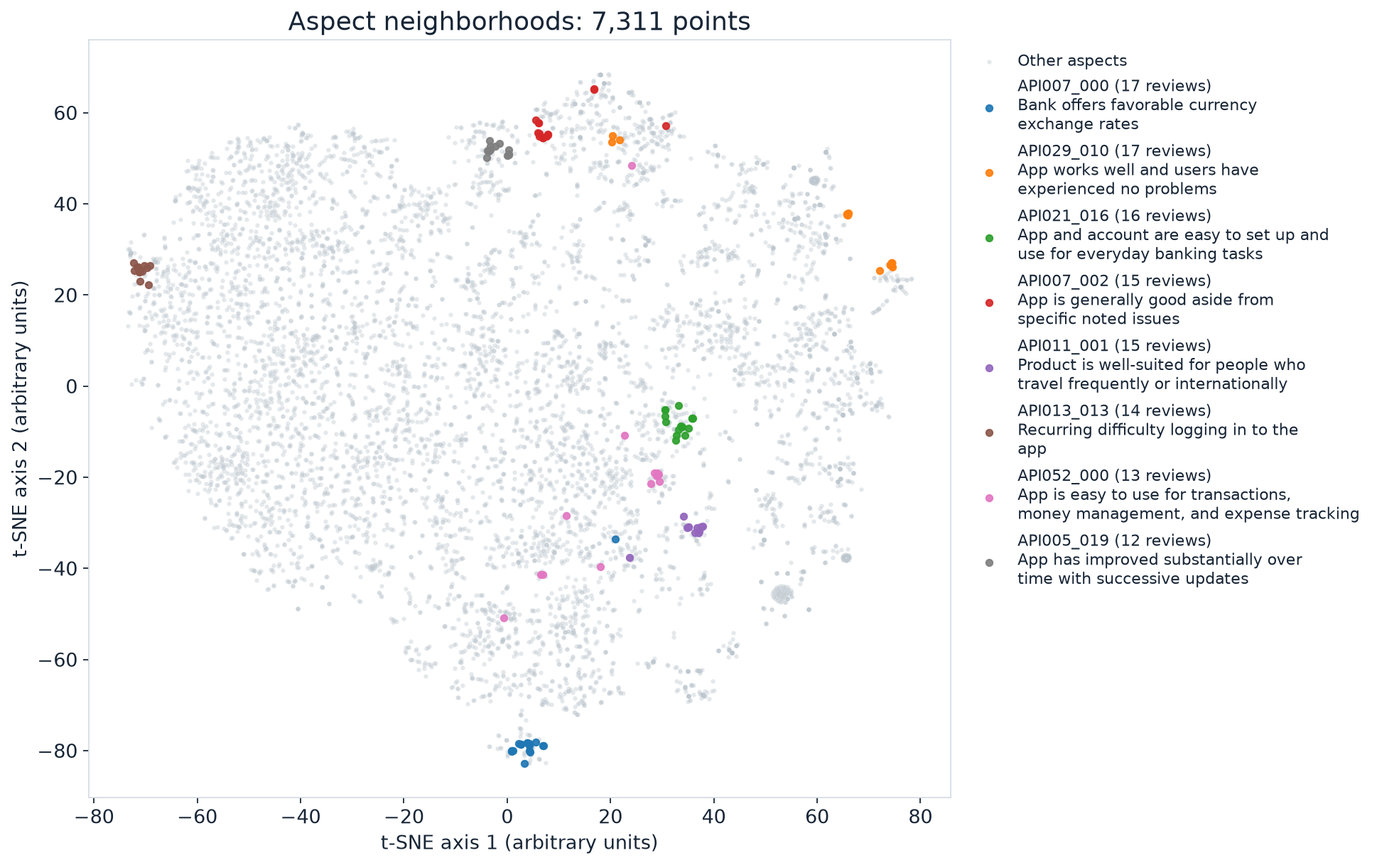
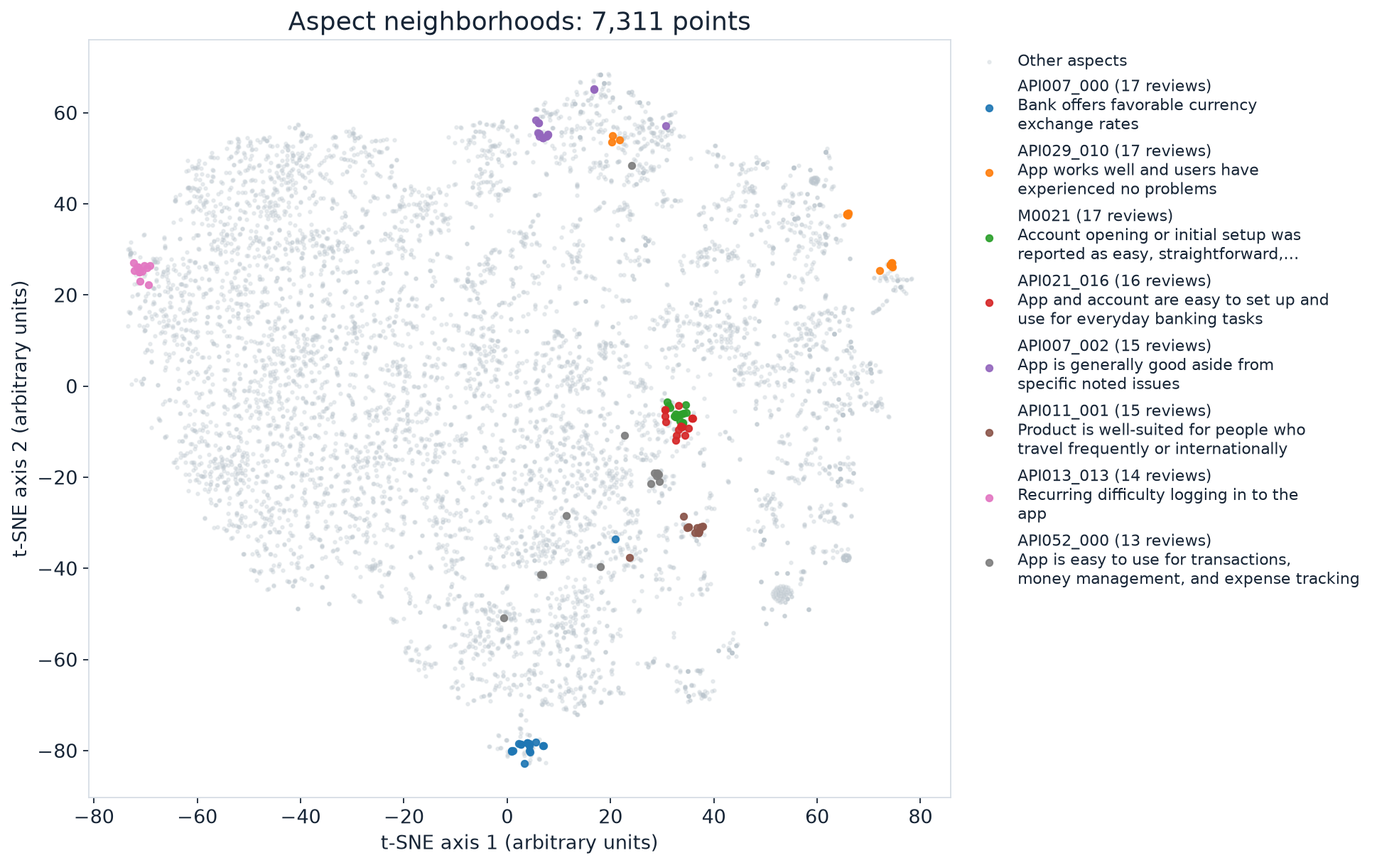
Publish current v2 Russian walkthrough and verified diagnostic figures

diff --git a/REVIEW_V2_RU.md b/REVIEW_V2_RU.md
@@ -1,0 +1,171 @@
+# Chattermill: что мы сделали и что защищаем
+
+Актуальный разбор на **4 октября 2026**. Это материал для твоего финального чтения, а не сообщение о сдаче работодателю. Модельные этапы v2 завершены. Новый ZIP и окончательный английский README ещё нужно собрать и проверить; прежний ZIP содержит v1.
+
+## 1. Задача — не просто распределить отзывы по 15 классам
+
+Даны 5 000 банковских отзывов и справочник из 15 тем, объединённых в 5 категорий. Правильной разметки отзывов нет.
+
+Нужно получить полезную картину обратной связи: выделить конкретные мысли пользователей и их отношение, собрать связанные мысли в понятные инсайты, затем связать их с широкими темами. Например, «приложение плохое» мало помогает продуктовой команде. «После перехода на новую версию сразу заканчивается сессия» уже описывает конкретный сценарий, для которого можно открыть подтверждающие отзывы.
+
+Один отзыв может содержать несколько мыслей, с разным отношением и про разные версии продукта. Поэтому ни один общий sentiment, ни один класс на весь текст не решают задачу целиком.
+
+## 2. Главная идея решения
+
+**Отзыв → отдельные мысли с цитатами → кандидаты групп → смысловая проверка групп → широкие темы → подсчёты и примеры.**
+
+Это последовательность этапов, не обучение новой нейросети.
+
+| Термин | Что он означает |
+|---|---|
+| Review | Исходный отзыв целиком |
+| Aspect | Конкретная мысль внутри отзыва, например жалоба на немедленный выход из аккаунта |
+| Sentiment | Отношение к этой мысли: positive, negative или neutral |
+| Insight | Понятное утверждение, поддержанное участниками группы; это не обязательно массовая проблема |
+| Theme | Широкая рубрика из задания, например Account Access |
+
+### Пример: нельзя смешать старое и новое
+
+В отзыве 2617 пользователь пишет: старое приложение работало без проблем, но новая версия сразу выводит из аккаунта, прежде чем он успевает что-либо сделать.
+
+![Разные мысли в одном отзыве](assets/mixed-review.png)
+
+Получаются две отдельные мысли: похвала прошлой версии и жалоба на текущую. В группу жалоб на немедленный logout идёт только вторая. Похожий сценарий есть в отзыве 1013.
+
+Мы не утверждаем, что установили техническую причину одного и того же бага. Для этого нужны логи и код приложения, которых у нас нет.
+
+**Фраза для защиты:** “I separate observations inside a review. Praise for an old version should not cancel a complaint about the current one.”
+
+## 3. Почему у аспекта есть дополнительные поля
+
+Модель записывает не только краткую мысль и sentiment, но и дословную цитату, объект обсуждения, время и источник опыта. Это наш инженерный формат, а не отдельное требование иметь именно шесть полей.
+
+| Поле | Какую ошибку хотим предотвратить |
+|---|---|
+| aspect | Не потерять конкретную мысль за общей оценкой |
+| sentiment | Не присвоить всем мыслям отношение ко всему отзыву |
+| evidence | Не принять утверждение, для которого нет цитаты в оригинале |
+| referent | Не перепутать целевой банк с конкурентом |
+| time | Не выдать прошлую или уже исправленную проблему за текущую |
+| attribution | Не спутать личный опыт с пересказом или предположением |
+
+Поля сами по себе не гарантируют правильность. Цитата может быть дословной, но модель всё равно способна неверно её понять. Поэтому проверка формата и проверка смысла — разные задачи.
+
+## 4. Как получаем группы
+
+Сначала E5-small-v2 превращает формулировку каждой мысли в вектор — набор чисел, описывающий её смысл. Похожие формулировки становятся кандидатами на объединение.
+
+Используем complete-linkage clustering: для объединения недостаточно цепочки похожих соседей, элементы должны быть близки друг к другу по выбранному критерию. Затем учитываем контекст и даём кандидатам смысловую проверку моделью. Она может разделить широкую группу или отвергнуть неподтверждённую мысль.
+
+### Зачем осторожный порог
+
+![Порог кластеризации](assets/v2/threshold_sweep.png)
+
+На пилоте из 146 аспектов пороги cosine distance 0.15, 0.20 и 0.25 дали соответственно 84, 42 и 12 групп. Больший порог объединяет больше, но это не доказательство лучшего результата. Выбрали осторожный 0.15, а не самое красивое число групп. Оптимальность порога не установлена.
+
+### Почему потом понадобилось объединение
+
+![Размеры групп по этапам](assets/v2/group_sizes.png)
+
+После проверки модель часто разделяла кандидатов. Это уменьшало широкие объединения, но оставляло много похожих маленьких групп. В v2 проверили **50 непересекающихся пар** близких групп: модель разрешила 19 объединений и отклонила 31. Получилось 3 816 групп вместо 3 835 в исправленной рабочей копии.
+
+Это ограниченная попытка уменьшить дробление, не глобальное исправление всех групп. Даже принятое объединение может описывать общий пользовательский сценарий, а не одну доказанную техническую причину.
+
+### Что показывает облако точек
+
+![Облако аспектов](assets/v2/aspect_cloud.png)
+
+Каждая точка — один аспект. Для картинки 384-мерные векторы сжаты с помощью PCA и t-SNE. Цветом выделены восемь крупных групп, ранее помеченных моделью как конкретные повторяющиеся наблюдения.
+
+Картинка помогает выбрать места для проверки. Она не доказывает правильность кластеров: двумерные расстояния искажены проекцией. По красивому облаку нельзя заявить хорошую accuracy.
+
+## 5. Как связываем группы с 15 темами
+
+В v1 работал словарный baseline: ищем характерные слова и выражения. Он дешёвый и понятный, но пропускает перефразировки и может реагировать на слово вне нужного смысла.
+
+В v2 добавили смысловой mapper: модель читает группу и её наблюдения, затем выбирает подходящие темы либо явно отказывается от назначения. У каждой тематической связи сохраняются именно поддерживающие её аспекты и отзывы. Несколько тем допустимы; весь состав группы не приписываем каждой теме автоматически.
+
+![Словарь и смысловой mapping](assets/v2/mapping_coverage.png)
+
+Сравнение выполнено **на одних и тех же 3 656 допустимых группах целевого продукта**. Ещё 160 групп исключены из этого сравнения: они отвергнуты или не содержат целевых наблюдений.
+
+| Метод | Получили хотя бы одну тему | Остались без темы | Что измерили |
+|---|---:|---:|---|
+| Словарный baseline | 2 406 | 1 250 | Покрытие 65.8% |
+| Смысловой mapper | 3 376 | 280 | Покрытие 92.3% |
+
+**Мы увеличили покрытие, но не доказали рост точности.** Назначенная тема может быть ошибочной. Отсутствие темы может означать корректный отказ, узкое наблюдение или пропуск mapper. Без независимой разметки нельзя отличить все эти случаи численно.
+
+**Фраза для защиты:** “Semantic mapping covers more groups than the lexical baseline. I do not treat coverage as accuracy.”
+
+## 6. Какие идеи проверили и что из них взяли
+
+| Гипотеза простыми словами | Как проверили | Что наблюдали | Решение |
+|---|---|---|---|
+| Готовые темы могут скрыть детали отзывов | Диагностические извлечения с таксономией и без неё | Сохранили примеры для сравнения; надёжного численного доказательства преимущества нет | В основном проходе сначала извлекаем конкретные мысли, затем назначаем темы |
+| Один отзыв может смешивать прошлое, текущее и разные продукты | Разобрали примеры по цитатам и контексту | Есть случаи, где общий sentiment теряет важное различие | Сохраняем контекст у каждой мысли |
+| Широкий порог даст чрезмерные объединения | Пилот с тремя порогами | Число групп сильно меняется; правильность сама по себе не измерена | Осторожные кандидаты и последующая проверка |
+| После разделения остаётся избыточное дробление | Ревью 50 близких пар | Модель приняла 19 объединений | Сохраняем ограниченный проход, не называем проблему решённой |
+| Словарь недостаточно хорошо понимает перефразировки | Полный смысловой mapping и пересчёт словаря на тех же группах | Больше групп получают тему | Берём смысловой mapping, честно показываем отсутствие оценки accuracy |
+| Поиск от тем поможет найти дополнительные примеры | Сравнили BM25, E5 и гибрид RRF | Их top-20 списки различаются | Оставляем как исследовательский инструмент, не как основной способ открытия инсайтов |
+
+Предварительные обсуждения с Pro помогали формировать гипотезы. Ни мнение Pro, ни согласие нескольких моделей не считаем эталоном.
+
+### Идея поиска «от обратного»
+
+BM25 ищет совпадения слов с формулировкой темы. E5 ищет смысловую близость. RRF объединяет позиции в их выдачах, не превращая их в вероятности.
+
+![Сравнение поисковых выдач](assets/v2/retrieval_overlap.png)
+
+Ячейка — число общих отзывов в двух top-20 списках для одной темы. Это показывает различие найденных примеров, а не качество или распространённость проблемы. Релевантность этой выдачи независимо не размечена.
+
+## 7. Что действительно получилось
+
+| Число | Понятное значение | Чего оно не доказывает |
+|---|---|---|
+| 5 000 отзывов | Все исходные ID учтены в сохранённом извлечении | Что модель заметила каждую важную мысль |
+| 7 311 аспектов | Сохранённые извлечённые мысли после одной цитатно подтверждённой поправки | Что все мысли верны и полны |
+| 31 пустой результат | Явно обработанные отзывы без извлечённых аспектов, не потерянные ответы | Что эти отзывы действительно не содержат аспектов |
+| 3 816 групп | Итоговые записи после ревью и ограниченного объединения | Что это 3 816 повторяющихся проблем |
+| 16 отвергнутых записей | Сохранены для истории, исключены из назначения тем | Что все остальные автоматически правильны |
+| 166 локальных тестов | Программные проверки проходят | Смысловую accuracy |
+| 12 свежих отзывов через API | Настоящий генеративный проход работает от начала до конца | Что все 5 000 заново сгенерированы через API |
+
+Рабочая v2 добавляет одну пропущенную положительную мысль в отзыве 4242 по точной цитате. Исходная v1 сохранена отдельно. Ни ID, ни старый ZIP не подменены новым результатом незаметно.
+
+## 8. Воспроизводимость и расходы
+
+Полный replay по сохранённым ответам обрабатывает все 5 000 отзывов **без API-ключа и новых платных запросов**. Повторный запуск при заблокированной сети восстановил семь файлов результатов побайтово.
+
+Replay — это воспроизведение обработки сохранённых ответов, а не обещание, что LLM при повторной генерации выдаст те же слова. Свежий генеративный запуск проверен отдельно на 12 отзывах.
+
+Дополнительные API-вызовы v2 имеют расчётную верхнюю оценку **около $2.52** при согласованном максимуме $20. Это расчёт по usage, не invoice и не остаток аккаунта. Старый кредит задания учитывается отдельно. Ключи и личные конфиги не публикуются.
+
+## 9. Что мы не утверждаем
+
+- Независимой человеческой оценки extraction, sentiment и mapping нет. Голосовые комментарии остаются качественным разбором; мы не заполняем недостающие ответы моделью и не выдаём их за human gold
+- Возможно, извлечение пропустило детали; проверка точности цитат не находит все пропуски
+- Группы могут быть слишком узкими или широкими. Ограниченное ревью пар не устраняет это повсеместно
+- Смысловой mapper может ошибочно назначить широкую тему. Более высокое покрытие не равно лучшей accuracy
+- Частоту считаем по уникальным поддерживающим отзывам. Это доля в данном корпусе, а не доля всех клиентов банка
+
+Для независимых quality metrics потребовалась бы заранее зафиксированная человеческая разметка с правилами сопоставления. Мы не блокируем текущую упаковку её отсутствием, но явно сохраняем это ограничение.
+
+## 10. Как рассказать за 10 минут
+
+1. **Задача, 1 минута:** нужно сохранить конкретные пользовательские наблюдения, а не только общий sentiment
+2. **Подход, 2 минуты:** цитатное извлечение, контекст, кандидаты групп, ревью, поздний mapping
+3. **Пример, 2 минуты:** старое приложение работало, новое сразу выводит; почему это две мысли
+4. **Эксперименты, 2 минуты:** порог, дробление, ограниченные объединения, словарь против смыслового mapping
+5. **Результаты, 2 минуты:** таблица выше, настоящий smoke, offline replay; отдельно покрытие и accuracy
+6. **Ограничения, 1 минута:** человеческая оценка, пропуски, границы групп и тем; следующий шаг — независимая проверка, не ещё один огромный pipeline
+
+**Главная формулировка:** “The goal is to preserve specific observations, group them carefully, and connect them to broader themes without losing the evidence.”
+
+## 11. Что требуется от тебя сейчас
+
+Прочитать эту страницу и сказать свободно: где непонятно, какие выводы неубедительны, что ты не сможешь объяснить на защите. Дополнительная массовая разметка не требуется.
+
+Остаётся финализировать английскую документацию, проверить презентационные группы по всем участникам и собрать отдельный ZIP v2 с чистой установкой и replay. Эта страница не означает, что новый ZIP уже проверен или что решение отправлено работодателю.
+
+[Подробные пояснения к графикам](DIAGNOSTICS_V2.md) · [История первоначальной версии v1](README.md)

diff --git a/DIAGNOSTICS_V2.md b/DIAGNOSTICS_V2.md
@@ -1,6 +1,6 @@
 # Диагностика результатов: облако аспектов, кластеризация и поиск
 
-Это **рабочая диагностика новой итерации**, не готовая финальная v2. Смысловой OpenAI mapping, проверка объединений и человеческая оценка пока не выполнены: для первого нужен ключ, для последней — ответы Дмитрия. Новых платных API-вызовов здесь нет.
+Это **рабочая диагностика новой итерации**, не готовая финальная v2. На 4 октября смысловой mapping и ограниченная проверка объединений завершены. Независимая человеческая оценка не завершена: покрытие и модельное ревью не выдаём за accuracy.
 
 В рабочей копии 7 311 аспектов: к исходным 7 310 добавлена пропущенная похвала контролю финансов в отзыве 4242. Исправление опирается на точную цитату. Исходная версия и её ZIP сохранены отдельно; существующие ID не перенумерованы.
 
@@ -28,17 +28,17 @@
 
 Синие столбцы — первоначальные embedding-кандидаты. Зелёные — сохранённая модельно проверенная версия v1. На оси X число уникальных поддерживающих отзывов в группе, на Y — число записей групп.
 
-Количество групп с одним поддерживающим отзывом выросло с **1 581 до 2 623**. Здесь учтены все записи, в том числе 16 отвергнутых гипотез; если исключить их, одиночных групп остаётся 2 607.
+В версии v1 количество групп с одним поддерживающим отзывом выросло с **1 581 до 2 623**. В новой итерации отдельно проверены 50 ближайших непересекающихся пар: модель приняла 19 объединений и отклонила 31. Добавленный столбец отражает фактические результаты этого ограниченного прохода. Все записи, включая отвергнутые гипотезы, сохранены для трассировки.
 
-**Вывод:** смысловое разделение уменьшило широкие объединения, но усилило фрагментацию. Поэтому новая итерация рассматривает ограниченное объединение соседних групп. Пока эта проверка не проведена, на графике нет выдуманного столбца «после улучшения».
+**Вывод:** смысловое разделение уменьшило широкие объединения, но усилило фрагментацию. Ограниченное объединение уменьшило число групп с 3 835 в цитатно исправленной копии до 3 816, сохранив каждый аспект ровно один раз. Это не глобальное устранение фрагментации и не доказанное улучшение качества.
 
 ## 4. Где заканчивается словарный mapping
 
 ![Покрытие словарного mapping](assets/v2/mapping_coverage.png)
 
-Знаменатель здесь — **3 675 разрешённых групп хотя бы с одним target-аспектом** в рабочей копии. Из них 2 422 получили тему, 1 253 остались без назначения. Ещё 160 отвергнутых или полностью нецелевых групп в этот знаменатель не входят.
+Знаменатель здесь — **3 656 разрешённых групп хотя бы с одним target-аспектом**, одинаковых для двух методов. Словарный baseline назначил темы 2 406 группам, смысловой mapper — 3 376. Без назначения соответственно 1 250 и 280. Ещё 160 отвергнутых или полностью нецелевых групп в этот знаменатель не входят.
 
-**Вывод:** правила оставляют существенную часть наблюдений без темы. Но назначение темы не означает правильность, а отсутствие назначения не означает новый топик. Нужны смысловой mapper и человеческая проверка, а не попытка довести покрытие до 100% любой ценой.
+**Вывод:** смысловой mapper повысил покрытие примерно с 65.8% до 92.3%, но назначение темы не означает правильность, а отсутствие назначения не означает новый топик. Без независимой человеческой оценки превосходство по смысловому качеству не установлено; его нельзя вывести из этой картинки.
 
 ## 5. Идея поиска от готовых тем
 
@@ -50,8 +50,10 @@
 
 **Вывод:** способы поиска дают разные примеры, что полезно для исследования и проверки пропусков. Мы не размечали релевантность выдачи, поэтому эта карта не доказывает превосходство гибрида и не измеряет частоту проблем.
 
-## Что будет добавлено после следующего этапа
+## Ограничения оценки и финальная упаковка
 
-Сравнение словарного и смыслового mapping на подтверждённых человеком аспектах, реальные принятые объединения и разбор конкретных ошибок. Визуальные данные, человеческие метрики и механические тесты остаются разными видами доказательств.
+Независимое сравнение качества на человеческой разметке не завершено. Голосовые комментарии сохраняем как качественную диагностику, не human gold; это ограничение не блокирует упаковку. Свежий API-прогон уже проверен на 12 отзывах; полный replay на 5 000 использует сохранённое извлечение. Визуальные данные и механические тесты не заменяют смысловую оценку.
+
+[Актуальный понятный разбор решения v2](REVIEW_V2_RU.md).
 
 Ключи, сырые API-ответы и человеческая разметка в публичную версию не включаются.

diff --git a/README.md b/README.md
@@ -1,6 +1,8 @@
-# Chattermill: понятный разбор финального решения
+# Chattermill: история первоначального решения v1
 
-**Новые аналитические графики:** [облако аспектов, пороги кластеризации и сравнение поиска](DIAGNOSTICS_V2.md). Это рабочая диагностика v2; смысловой mapping и человеческая оценка ещё не выполнены.
+**Начни здесь:** [актуальный русский разбор v2 — задача, подход, эксперименты, результаты и ограничения](REVIEW_V2_RU.md). На 4 октября смысловой mapping завершён. Независимая человеческая оценка не завершена; новый ZIP ещё не собран. Текст ниже сохраняет историю v1, его числа не являются текущими результатами v2.
+
+**Аналитические графики:** [облако аспектов, пороги кластеризации и сравнение поиска](DIAGNOSTICS_V2.md).
 
 
 Понятный разбор задачи, подхода и результатов. [English report](REPORT_EN.md).
